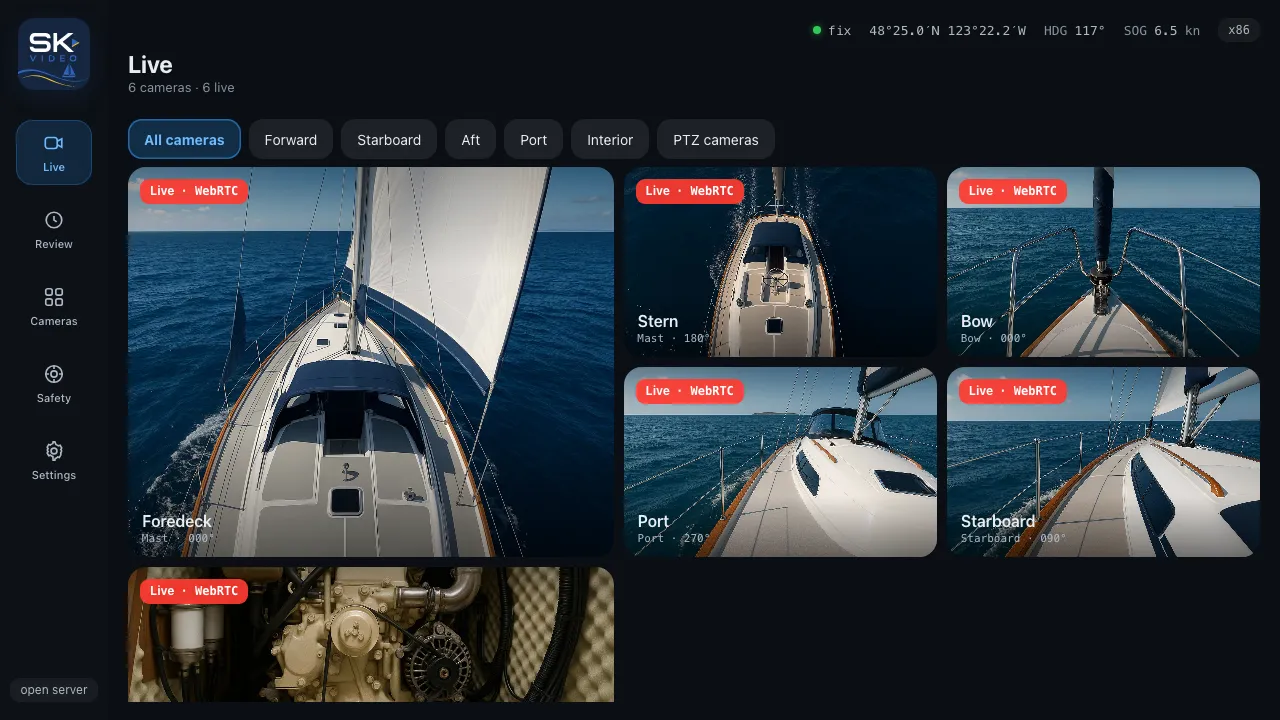
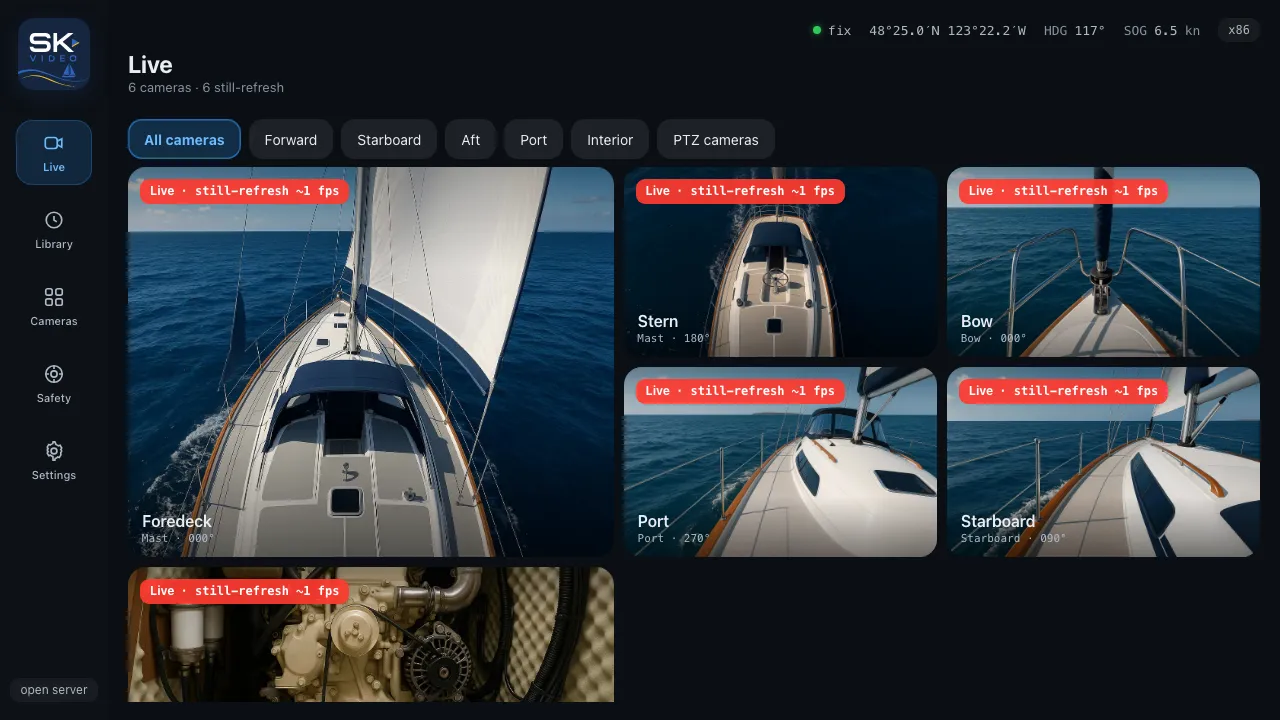
docs: regenerate app screenshots for the Library rename + add the Videos tab
The left-nav label changed from Review to Library, so every console
screenshot that shows the nav is refreshed. Adds a new app-videos
screenshot (multi-file drag-and-drop upload with resumable progress)
and references it from the app tour, plus the screenshot-capture spec
and copy list that produce it.

diff --git a/e2e/screenshots/webapp.spec.ts b/e2e/screenshots/webapp.spec.ts
@@ -165,6 +165,13 @@ test('webapp: Recordings DVR (scrubbed)', async ({ page, request }) => {
   await shot(page, 'app-recordings');
 });
 
+test('webapp: Videos library', async ({ page }) => {
+  await page.goto(`${APP}#/library/videos`);
+  await expect(page.getByRole('heading', { name: 'Videos' })).toBeVisible({ timeout: 15_000 });
+  await page.waitForTimeout(500);
+  await shot(page, 'app-videos');
+});
+
 test('webapp: Settings (Operational)', async ({ page }) => {
   await page.goto(`${APP}#/settings`);
   await expect(page.getByRole('heading', { name: 'Operational settings' })).toBeVisible({

diff --git a/docs/guides/the-app.md b/docs/guides/the-app.md
@@ -70,7 +70,11 @@ Everything worth keeping lives under **Library**, as tabs.
 
 **Snapshots** is a gallery of your position-stamped stills, each honest about whether it had a GPS fix.
 
-**Videos** holds clips you’ve uploaded — distinct from recordings and incidents — with playback and a quota readout.
+**Videos** holds clips you’ve uploaded — distinct from recordings and incidents — with inline playback and a quota readout. Upload several at once (pick them, or drag &amp; drop onto the screen); each shows live progress, speed, and time remaining, and a large file interrupted by a dropped connection resumes where it left off rather than starting over.
+
+<p align="center">
+  <img src="../images/app-videos.webp" alt="The Videos tab — upload your own clips with multi-file drag-and-drop and resumable progress" width="90%">
+</p>
 
 ---
 
